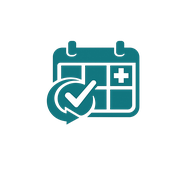
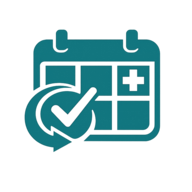
Add KeshikYar branding and random draw extra

Changed region(s): [[0.125, 0.125, 0.8438, 0.8125]]

diff --git a/index.html b/index.html
@@ -27,9 +27,10 @@
       <button data-page="schedule">جدول کشیک</button>
       <button data-page="analysis">تحلیل و گزارش</button>
       <button data-page="help">راهنمای قدمبهقدم</button>
+      <button data-page="extras">اکسترا</button>
       <button data-page="settings">تنظیمات و پشتیبان</button>
     </div>
-    <div class="creator">ایده و توسعه : میلاد شکاری 98</div>
+    <div class="creator"><span>ایده و توسعه: میلاد شکاری 98</span><span class="creator-links"><a href="https://github.com/Miladkhan1379/keshik-medical-planner" target="_blank" rel="noopener">GitHub</a><a href="https://t.me/Keshik_Planner" target="_blank" rel="noopener">Telegram</a></span></div>
   </aside>
 
   <main class="main">
@@ -193,10 +194,38 @@
       </tbody></table></div><div class="actions top-gap"><a class="btn primary link-btn" href="sample_people.xlsx" download>دانلود Excel نمونه فارسی</a></div></div>
     </section>
 
-    <section id="settings" class="section"><div class="panel mobile-only"><h3>نصب روی گوشی</h3><div class="notice">نسخه موبایل همان موتور کشیکیار را استفاده میکند و برای چیدن و تحلیل نیازی به سرور جدا ندارد.</div><div class="mobile-install-actions"><button class="btn primary hidden" id="installPwaBtn">نصب روی گوشی</button></div><div class="notice mobile-install-status" id="mobileInstallStatus">در حال بررسی امکان نصب…</div></div><div class="panel"><h3>پشتیبانگیری</h3><div class="actions"><button class="btn primary" id="backupBtn">دانلود فایل پشتیبان</button><label class="btn light file-btn">بازیابی پشتیبان<input type="file" id="restoreFile" accept=".json" hidden></label><button class="btn danger" id="resetBtn">پاککردن کل دادهها</button></div></div><div class="panel"><h3>حریم داده</h3><div class="notice">اسامی، اولویتها، ظرفیت روزها، تقویم و کشیک فقط روی همین مرورگر و همین کامپیوتر ذخیره میشوند. فقط دریافت آنلاین تعطیلات به اینترنت نیاز دارد.</div></div><div class="panel"><div class="notice"><b>کشیکیار پزشکی — نسخه ۱.۱</b><br>ایده و توسعه : میلاد شکاری 98</div></div></section>
+    <section id="extras" class="section">
+      <div class="panel">
+        <h3>اکسترا — قرعه رندم</h3>
+        <div class="notice">این قسمت از کشیکچینی جداست و هیچ چیزی در جدول کشیک، محدودیتها یا امتیازها تغییر نمیدهد. قرعه فقط بین اسامی فعالی که دستی یا از Excel وارد کردهای انجام میشود.</div>
+        <div id="randomDemoNote" class="notice top-gap hidden">الان هنوز اسامی نمونه داخل برنامه هستند؛ اگر قرعه واقعی میخواهی اول اسامی خودت را وارد کن.</div>
+      </div>
+      <div class="cards random-stats">
+        <div class="card"><div class="k">کل اسمهای قابل قرعه</div><div class="n" id="randomTotal">0</div></div>
+        <div class="card"><div class="k">اسمهای باقیمانده</div><div class="n" id="randomRemain">0</div></div>
+      </div>
+      <div class="panel random-panel">
+        <div class="random-winner" id="randomWinner"><span>برای شروع روی «قرعه کن» بزن.</span></div>
+        <div class="actions random-main-actions">
+          <button class="btn primary" id="randomDrawBtn">قرعه کن</button>
+          <button class="btn light" id="randomResetBtn">شروع دور جدید</button>
+        </div>
+        <div class="subpanel hidden" id="randomDecision">
+          <b>این اسم در قرعههای بعدی چه شود؟</b>
+          <div class="actions top-gap">
+            <button class="btn light" id="randomKeepBtn">در قرعه بماند</button>
+            <button class="btn danger" id="randomRemoveBtn">از ادامه خارج شود</button>
+          </div>
+          <div class="field-help">بعد از انتخاب یکی از این دو حالت، دکمه قرعه بعدی دوباره فعال میشود.</div>
+        </div>
+      </div>
+      <div class="panel"><h3>نتیجه قرعهها</h3><div id="randomHistory" class="random-history"><div class="muted">هنوز قرعهای انجام نشده.</div></div></div>
+    </section>
+
+    <section id="settings" class="section"><div class="panel mobile-only"><h3>نصب روی گوشی</h3><div class="notice">نسخه موبایل همان موتور کشیکیار را استفاده میکند و برای چیدن و تحلیل نیازی به سرور جدا ندارد.</div><div class="mobile-install-actions"><button class="btn primary hidden" id="installPwaBtn">نصب روی گوشی</button></div><div class="notice mobile-install-status" id="mobileInstallStatus">در حال بررسی امکان نصب…</div></div><div class="panel"><h3>پشتیبانگیری</h3><div class="actions"><button class="btn primary" id="backupBtn">دانلود فایل پشتیبان</button><label class="btn light file-btn">بازیابی پشتیبان<input type="file" id="restoreFile" accept=".json" hidden></label><button class="btn danger" id="resetBtn">پاککردن کل دادهها</button></div></div><div class="panel"><h3>حریم داده</h3><div class="notice">اسامی، اولویتها، ظرفیت روزها، تقویم و کشیک فقط روی همین مرورگر و همین کامپیوتر ذخیره میشوند. فقط دریافت آنلاین تعطیلات به اینترنت نیاز دارد.</div></div><div class="panel"><div class="notice"><b>کشیکیار پزشکی — نسخه ۱.۱</b><br>ایده و توسعه: میلاد شکاری 98<div class="app-links top-gap"><a class="btn light sm" href="https://github.com/Miladkhan1379/keshik-medical-planner" target="_blank" rel="noopener">GitHub پروژه</a><a class="btn light sm" href="https://t.me/Keshik_Planner" target="_blank" rel="noopener">کانال Telegram</a></div></div></div></section>
   </main>
 </div>
 <div class="toast" id="toast"></div>
-<script src="jalali.js"></script><script src="holidays.js"></script><script src="xlsx-lite.js"></script><script src="solver.js"></script><script src="app.js"></script><script src="v11-extra.js"></script><script src="mobile.js"></script>
+<script src="jalali.js"></script><script src="holidays.js"></script><script src="xlsx-lite.js"></script><script src="solver.js"></script><script src="app.js"></script><script src="v11-extra.js"></script><script src="extras.js"></script><script src="mobile.js"></script>
 </body>
 </html>

diff --git a/styles.css b/styles.css
@@ -13,3 +13,20 @@
 .mode-hidden{display:none!important}.mode-mini{margin:0 8px 10px;padding:8px 10px;border:1px solid #293140;border-radius:9px;color:#98a2b3;font-size:11px;display:flex;justify-content:space-between;gap:8px}.mode-mini b{color:#fff}.mode-cards{display:grid;grid-template-columns:repeat(2,minmax(0,1fr));gap:12px}.mode-card{border:1px solid var(--line);background:#fff;padding:18px;border-radius:14px;cursor:pointer;text-align:right;color:var(--text);font:inherit}.mode-card b{display:block;font-size:16px;margin-bottom:8px}.mode-card span{display:block;color:var(--muted);font-size:12px;line-height:1.9}.mode-card:hover,.mode-card.selected-mode{border-color:#b38a2f;box-shadow:0 0 0 3px rgba(141,106,24,.10)}.outside-period{opacity:.45;background:#f2f4f7}.day-shift-box{border:1px solid var(--line);border-radius:11px;padding:10px;background:#fff}.day-shift-box>b{display:block;margin-bottom:9px}.cover-cell{background:#fff8e5}.cover-cell small{color:#8d6a18}.analysis-choice-grid{display:flex;flex-wrap:wrap;gap:8px}.choice-chip{display:flex;align-items:center;gap:7px;border:1px solid var(--line);border-radius:999px;padding:8px 11px;background:#fff;font-size:12px;cursor:pointer}.choice-chip input{width:auto}.priority-row{grid-template-columns:minmax(180px,1fr) 220px}.priority-head{display:none}.creator{margin-top:18px}.subtle{color:var(--muted)}
 @media(max-width:700px){.mode-cards{grid-template-columns:1fr}.priority-row{grid-template-columns:1fr}.mode-panel{padding:14px}}
 .date-triple{display:grid;grid-template-columns:1fr 1.25fr .8fr;gap:6px}.date-triple input,.date-triple select{min-width:0}.mode-chooser .selected-mode{box-shadow:0 0 0 2px rgba(15,118,110,.25)}.schedule-grid select{max-width:150px}.schedule-grid td .btn{margin-top:5px}.mode-hidden{display:none!important}
+
+/* Extras + project links */
+.creator{display:flex;flex-direction:column;gap:7px}
+.creator-links,.app-links{display:flex;gap:7px;flex-wrap:wrap;align-items:center}
+.creator-links a{color:#d0d5dd;text-decoration:none;border:1px solid #344054;border-radius:999px;padding:4px 8px;font-size:10px}
+.creator-links a:hover{color:#fff;border-color:#667085}
+.random-stats{grid-template-columns:repeat(2,minmax(0,1fr));max-width:650px}
+.random-panel{max-width:760px}
+.random-winner{min-height:170px;border:1px dashed #b7c0cb;border-radius:16px;background:linear-gradient(135deg,#f8fafc,#eef8f6);display:flex;flex-direction:column;align-items:center;justify-content:center;gap:12px;text-align:center;padding:20px;margin-bottom:14px}
+.random-winner span{color:var(--muted);font-size:12px}
+.random-winner strong{font-size:34px;line-height:1.5;color:#0f766e}
+.random-main-actions{justify-content:center}
+.random-history{display:grid;gap:8px}
+.random-history-row{display:grid;grid-template-columns:34px minmax(120px,1fr) auto;gap:9px;align-items:center;border-bottom:1px solid var(--line);padding:8px 2px}
+.random-history-row:last-child{border-bottom:0}
+.random-history-row>span:first-child{width:28px;height:28px;border-radius:50%;background:#f2f4f7;display:flex;align-items:center;justify-content:center;font-size:11px}
+@media(max-width:600px){.random-stats{grid-template-columns:1fr 1fr}.random-winner{min-height:140px}.random-winner strong{font-size:27px}.random-history-row{grid-template-columns:30px minmax(95px,1fr) auto}}

diff --git a/extras.js b/extras.js
@@ -1,0 +1,70 @@
+(function(){
+  const excluded=new Set();
+  const history=[];
+  let pending=null;
+
+  const $=s=>document.querySelector(s);
+  const esc=s=>{const d=document.createElement('div');d.textContent=s??'';return d.innerHTML;};
+  const currentPeople=()=>{
+    try{return (state?.people||[]).filter(p=>p && p.active!==false && String(p.name||'').trim());}
+    catch(_e){return [];}
+  };
+  const randomIndex=n=>{
+    if(n<=1)return 0;
+    if(window.crypto?.getRandomValues){
+      const max=Math.floor(0x100000000/n)*n;
+      const a=new Uint32Array(1);let x;
+      do{crypto.getRandomValues(a);x=a[0];}while(x>=max);
+      return x%n;
+    }
+    return Math.floor(Math.random()*n);
+  };
+  const available=()=>currentPeople().filter(p=>!excluded.has(p.id));
+
+  function syncSets(){
+    const valid=new Set(currentPeople().map(p=>p.id));
+    for(const id of [...excluded])if(!valid.has(id))excluded.delete(id);
+    if(pending && !valid.has(pending.id))pending=null;
+  }
+  function renderHistory(){
+    const box=$('#randomHistory');if(!box)return;
+    if(!history.length){box.innerHTML='<div class="muted">هنوز قرعهای انجام نشده.</div>';return;}
+    box.innerHTML=history.map((h,i)=>`<div class="random-history-row"><span>${i+1}</span><b>${esc(h.name)}</b><span class="pill ${h.removed?'red':'gold'}">${h.removed?'از ادامه خارج شد':'در قرعه ماند'}</span></div>`).join('');
+  }
+  function render(){
+    syncSets();
+    const people=currentPeople(), left=available();
+    const total=$('#randomTotal'),remain=$('#randomRemain'),winner=$('#randomWinner'),draw=$('#randomDrawBtn'),decision=$('#randomDecision');
+    if(total)total.textContent=people.length;
+    if(remain)remain.textContent=left.length;
+    if(winner){
+      if(pending)winner.innerHTML=`<span>اسم انتخابشده</span><strong>${esc(pending.name)}</strong>`;
+      else winner.innerHTML='<span>برای شروع روی «قرعه کن» بزن.</span>';
+    }
+    if(draw){draw.disabled=!!pending || !left.length;draw.textContent=!left.length?'اسمی نمانده':'قرعه کن';}
+    if(decision)decision.classList.toggle('hidden',!pending);
+    const demo=$('#randomDemoNote');if(demo)demo.classList.toggle('hidden',!state?.seededDemo);
+    renderHistory();
+  }
+  function finalize(remove){
+    if(!pending)return;
+    if(remove)excluded.add(pending.id); else excluded.delete(pending.id);
+    history.push({id:pending.id,name:pending.name,removed:remove});
+    pending=null;render();
+  }
+  function draw(){
+    syncSets();const pool=available();
+    if(!pool.length){render();return;}
+    pending=pool[randomIndex(pool.length)];render();
+  }
+  function reset(){excluded.clear();history.length=0;pending=null;render();}
+
+  document.addEventListener('DOMContentLoaded',()=>{
+    $('#randomDrawBtn')?.addEventListener('click',draw);
+    $('#randomKeepBtn')?.addEventListener('click',()=>finalize(false));
+    $('#randomRemoveBtn')?.addEventListener('click',()=>finalize(true));
+    $('#randomResetBtn')?.addEventListener('click',reset);
+    render();
+  });
+  window.KeshikExtras={render,reset};
+})();

diff --git a/app.js b/app.js
@@ -87,7 +87,7 @@ function applyModeUI(){
   const active=$('.section.active');if(active?.hasAttribute('data-advanced-only')&&!adv)go('dashboard');
 }
 $$('[data-set-mode]').forEach(b=>b.onclick=()=>setMode(b.dataset.setMode));
-function go(page){const target=$('#'+page);if(!target||(state.mode!=='advanced'&&target.hasAttribute('data-advanced-only')))return;$$('.section').forEach(x=>x.classList.toggle('active',x.id===page));$$('.nav button').forEach(x=>x.classList.toggle('active',x.dataset.page===page));const b=$(`.nav button[data-page="${page}"]`);$('#pageTitle').textContent=b?.textContent||'';if(page==='people')renderPeople();if(page==='shifts')renderShifts();if(page==='calendar')renderCalendar();if(page==='generate')renderGlobalPriorities();if(page==='schedule')renderSchedule();if(page==='analysis')renderAnalysis();}
+function go(page){const target=$('#'+page);if(!target||(state.mode!=='advanced'&&target.hasAttribute('data-advanced-only')))return;$$('.section').forEach(x=>x.classList.toggle('active',x.id===page));$$('.nav button').forEach(x=>x.classList.toggle('active',x.dataset.page===page));const b=$(`.nav button[data-page="${page}"]`);$('#pageTitle').textContent=b?.textContent||'';if(page==='people')renderPeople();if(page==='shifts')renderShifts();if(page==='calendar')renderCalendar();if(page==='generate')renderGlobalPriorities();if(page==='schedule')renderSchedule();if(page==='analysis')renderAnalysis();if(page==='extras')window.KeshikExtras?.render?.();}
 $$('.nav button').forEach(b=>b.onclick=()=>go(b.dataset.page));$$('[data-page-jump]').forEach(b=>b.onclick=()=>go(b.dataset.pageJump));
 
 function normalizePeopleLinks(){const ids=new Set(state.people.map(x=>x.id));state.globalRuleWeights={...DEFAULT_WEIGHTS,...(state.globalRuleWeights||{})};for(const p of state.people){p.togetherIds=(p.togetherIds||[]).filter(id=>ids.has(id)&&id!==p.id);p.avoidIds=(p.avoidIds||[]).filter(id=>ids.has(id)&&id!==p.id);p.allowedShiftIds=(p.allowedShiftIds||[]).filter(id=>state.shifts.some(s=>s.id===id));p.ruleWeights??={};for(const k of PRIORITY_KEYS)p.ruleWeights[k]=p.ruleWeights[k]===null||p.ruleWeights[k]===undefined?null:clampWeight(p.ruleWeights[k]);}}

diff --git a/service-worker.js b/service-worker.js
@@ -1,5 +1,5 @@
-const CACHE='keshikyar-1-1-mobile-v1';
-const ASSETS=['./','./index.html','./styles.css','./mobile.css','./jalali.js','./holidays.js','./xlsx-lite.js','./solver.js','./app.js','./v11-extra.js','./mobile.js','./manifest.webmanifest','./icon-192.png','./icon-512.png','./sample_people.xlsx','./sample_schedule.xlsx'];
+const CACHE='keshikyar-1-1-mobile-v3';
+const ASSETS=['./','./index.html','./styles.css','./mobile.css','./jalali.js','./holidays.js','./xlsx-lite.js','./solver.js','./app.js','./v11-extra.js','./extras.js','./mobile.js','./manifest.webmanifest','./icon-192.png','./icon-512.png','./sample_people.xlsx','./sample_schedule.xlsx'];
 self.addEventListener('install',e=>{e.waitUntil(caches.open(CACHE).then(c=>c.addAll(ASSETS)).then(()=>self.skipWaiting()));});
 self.addEventListener('activate',e=>{e.waitUntil(caches.keys().then(keys=>Promise.all(keys.filter(k=>k!==CACHE).map(k=>caches.delete(k)))).then(()=>self.clients.claim()));});
 self.addEventListener('fetch',e=>{if(e.request.method!=='GET')return;e.respondWith(caches.match(e.request).then(hit=>hit||fetch(e.request).then(r=>{if(r&&r.ok&&new URL(e.request.url).origin===location.origin){const copy=r.clone();caches.open(CACHE).then(c=>c.put(e.request,copy));}return r;}).catch(()=>caches.match('./index.html'))));});

diff --git a/mobile.css b/mobile.css
@@ -38,3 +38,6 @@ button,input,select,textarea{-webkit-tap-highlight-color:transparent}
 .mode-chooser [data-set-mode]{transition:background .18s ease,color .18s ease,border-color .18s ease,box-shadow .18s ease}
 .mode-chooser [data-set-mode].selected-mode{background:#0f766e!important;color:#fff!important;border-color:#0f766e!important;box-shadow:0 0 0 3px rgba(15,118,110,.18)!important}
 .mode-chooser [data-set-mode]:not(.selected-mode){background:#fff!important;color:#344054!important;border-color:#cfd6de!important}
+
+/* Creator links remain reachable on mobile without taking much space */
+@media(max-width:900px){.creator{display:flex!important;flex-direction:row;justify-content:space-between;align-items:center;gap:8px;margin:7px 3px 0;padding:7px 5px 0;font-size:9px}.creator-links{flex-wrap:nowrap}.creator-links a{padding:3px 6px;font-size:9px}}
